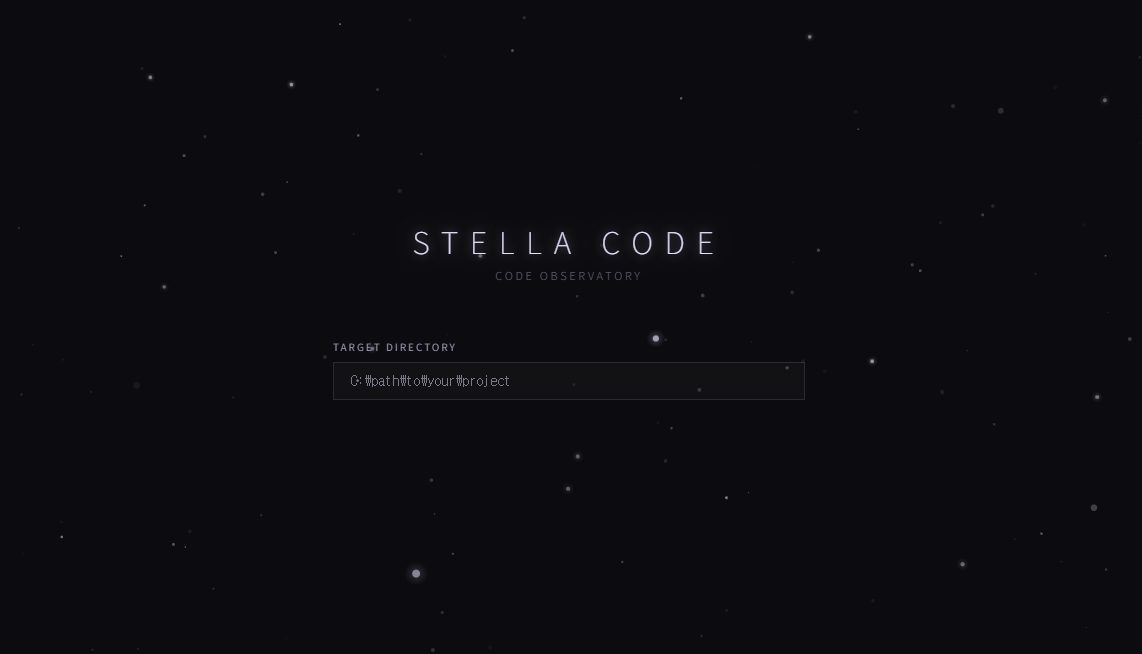
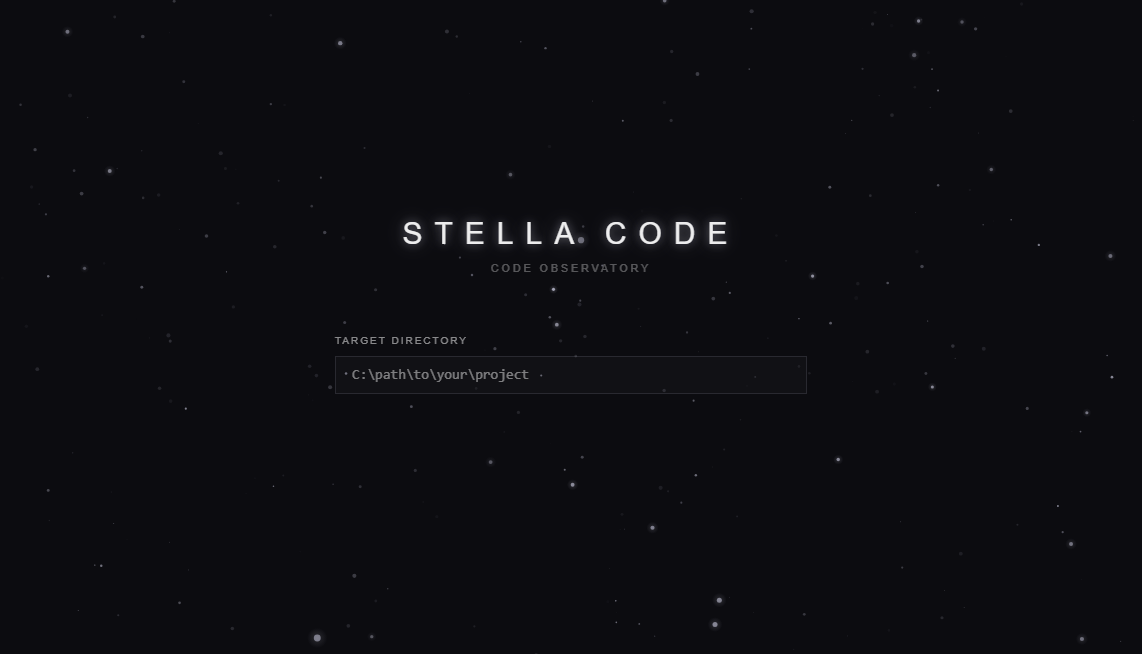
README: lead with a real hidden-coupling screen, shorter first screen
- Top screenshot: was a v0.1 screen of a 15-file, 1-commit project, where no
  co-change can exist. Now StellaCode on axios (last 500 commits) with the
  Co-change tab open on a hidden pair and the 7 commits behind it; the
  caption says this is master and what npm 1.3.0 lacks.
- The two-paragraph release note under the install line moved into that
  caption.
- What You See: one-line definitions; the parser details (re-exports,
  ./x.js, gray bar for large commits, trails) moved into a collapsed section.
  "Why" moved below it, so install and picture come first. Text unchanged.
- API table: method in its own column and short descriptions, so paths no
  longer wrap mid-word at desktop width; the 422 / scope notes follow as
  bullets.
- Architecture: one column, readable on a phone (the second column was cut
  off at 390 px).
- " -- " is now an em dash (it split across lines at phone width).
- Start screen screenshot retaken: the placeholder showed C:₩path₩to because
  the old capture used a Korean font for backslashes.

Round: R693 (PJ00 improvement loop)

Claude-Session: https://claude.ai/code/session_01VCs4HEFi6NiauWxSafLQJ7

diff --git a/README.md b/README.md
@@ -1,8 +1,8 @@
 # StellaCode
 
-**Code Observatory** -- observe your codebase as a living constellation.
+**Code Observatory** — observe your codebase as a living constellation.
 
-**See what your AI agent changed, surface hidden coupling debt (files that always change together but share no import), and replay your git history -- all local, in your terminal. No cloud, no code leaves your machine.**
+**See what your AI agent changed, surface hidden coupling debt (files that always change together but share no import), and replay your git history — all local, in your terminal. No cloud, no code leaves your machine.**
 
 [![npm version](https://img.shields.io/npm/v/stellacode?color=CB3837&logo=npm)](https://www.npmjs.com/package/stellacode)
 [![CI](https://github.com/juvenilehex/stellacode/actions/workflows/ci.yml/badge.svg)](https://github.com/juvenilehex/stellacode/actions/workflows/ci.yml)
@@ -13,23 +13,10 @@
 npx stellacode
 ```
 
-> Run it inside a project. StellaCode opens a local observatory for that codebase.
->
-> npm currently serves 1.3.0 (2026-03-23). Changes listed under `[Unreleased]` in [CHANGELOG.md](CHANGELOG.md) -- including the Co-change tab's hidden / linked / not-in-graph marks and commit evidence -- arrive with the next release; until then, run it from a clone (below).
+Run it inside a project; StellaCode opens a local observatory for that codebase.
 
-![StellaCode constellation view](https://raw.githubusercontent.com/juvenilehex/stellacode/master/screenshots/03-constellation-view.png)
-
-## Why
-
-We talk to AI, and code appears. Files multiply. One day you look around and realize you have a project you built -- but don't quite recognize anymore. Where does this connect? What did the AI change while you weren't looking? What keeps quietly breaking together?
-
-It can feel a little overwhelming. We thought it might help to just... see it.
-
-Every file becomes a star. Every import draws a constellation line. Hidden couplings -- files that always change together but share no import -- glow as teal threads you never knew existed. And when a Claude Code session touches your code, it leaves a trail across the sky.
-
-**Understand your project at a glance, and maybe feel something while you do.**
-
-If you've been staring at strings of text in a dark room for hours, we hope watching your code quietly glow and orbit can offer a moment of calm. Your project is alive. It's growing. And now you can see it.
+![StellaCode on the axios repository: the Git panel's Co-change tab with a hidden pair expanded to the commits that changed both files](https://raw.githubusercontent.com/juvenilehex/stellacode/master/screenshots/03-constellation-view.png)
+*StellaCode on [axios](https://github.com/axios/axios) (last 500 commits). Its CommonJS and ES-module type-test helpers changed in the same 7 commits and neither imports the other — hidden coupling, with the commits behind it. This is `master`; npm still serves 1.3.0 (March 2026), whose Co-change tab has neither the hidden marks nor the commits. Until the next release, [run from a clone](#quick-start).*
 
 ## Quick Start
 
@@ -63,11 +50,32 @@ npm run dev
 | Celestial body | What it means |
 |----------------|---------------|
 | **Star** | A file. Size = complexity (symbol count). Color = language. |
-| **Constellation Line** | An import relationship -- `import … from`, a re-export (`export … from`) or `import('…')` with a literal path. TypeScript's `./x.js` spelling finds `x.ts`. The declared wiring of your code. A computed `import(path)` can't be read, so it draws no line. |
-| **Co-change Thread** | Files that change together in git. Where no import connects them, that is hidden coupling -- the Git panel's Co-change tab marks each pair as hidden, linked by the code (and how), or not in the graph (a file the parser doesn't draw), and opens on the hidden ones. Click a pair for the commits that changed both. Pairs seen only in commits that changed more than 30 files get a gray bar: a release dump or a big merge can join unrelated files. |
-| **Trail** | The path a live Claude Code session left across your codebase (read from its session log). Plain file saves are not trails -- the file watcher can't tell who saved. |
+| **Constellation Line** | An import between two files — the declared wiring of your code. |
+| **Co-change Thread** | Two files that change together in git. With no import between them, that is hidden coupling. |
+| **Trail** | The path a live Claude Code session leaves across your code. |
 | **Pulse** | A file changing right now. |
 | **Diamond** | A directory. The structure that holds stars together. |
+
+<details>
+<summary>How lines, threads and trails are read</summary>
+
+- **Lines** come from `import … from`, re-exports (`export … from`) and `import('…')` with a literal path. TypeScript's `./x.js` spelling finds `x.ts`. A computed `import(path)` can't be read, so it draws no line.
+- **Threads**: the Git panel's Co-change tab marks each pair as hidden, linked by the code (and how), or not in the graph (a file the parser doesn't draw), and opens on the hidden ones. Click a pair for the commits that changed both. Pairs seen only in commits that changed more than 30 files get a gray bar — a release dump or a big merge can join unrelated files.
+- **Trails** are read from Claude Code's session log. Plain file saves are not trails — the file watcher can't tell who saved.
+
+</details>
+
+## Why
+
+We talk to AI, and code appears. Files multiply. One day you look around and realize you have a project you built — but don't quite recognize anymore. Where does this connect? What did the AI change while you weren't looking? What keeps quietly breaking together?
+
+It can feel a little overwhelming. We thought it might help to just... see it.
+
+Every file becomes a star. Every import draws a constellation line. Hidden couplings — files that always change together but share no import — glow as teal threads you never knew existed. And when a Claude Code session touches your code, it leaves a trail across the sky.
+
+**Understand your project at a glance, and maybe feel something while you do.**
+
+If you've been staring at strings of text in a dark room for hours, we hope watching your code quietly glow and orbit can offer a moment of calm. Your project is alive. It's growing. And now you can see it.
 
 ## Features
 
@@ -79,11 +87,11 @@ npm run dev
 - Search, filter by language, click to inspect
 
 ### Git Intelligence
-- **Co-change detection** -- finds files that always change together, even without imports. These hidden dependencies are often where bugs hide. Each pair lists the commits behind it -- a place to start asking why.
-- **Conventional commit parsing** -- feat, fix, refactor badges on each commit
-- **Hot files** -- most frequently modified files, ranked
-- **Activity heatmap** -- 30-day commit visualization
-- **Branch status** -- current branch, clean/dirty state
+- **Co-change detection** — finds files that always change together, even without imports. These hidden dependencies are often where bugs hide. Each pair lists the commits behind it — a place to start asking why.
+- **Conventional commit parsing** — feat, fix, refactor badges on each commit
+- **Hot files** — most frequently modified files, ranked
+- **Activity heatmap** — 30-day commit visualization
+- **Branch status** — current branch, clean/dirty state
 
 ### AI Agent Tracking
 - Detects commits from Claude Code, Copilot, Cursor, Aider, Codeium, Tabnine, Windsurf, Devin, Amazon Q, Gemini, and Bolt
@@ -91,18 +99,18 @@ npm run dev
 - See the boundary between human and machine work
 
 ### Visual Experience
-- **Entry animation** -- stars bloom into existence when the constellation loads
-- **Complexity glow** -- complex files burn brighter
-- **Co-change pulse** -- coupled files breathe together
-- **Code age coloring** -- old stars glow red, new stars glow blue
-- **Agent color mode** -- see which AI touched which file
-- **Nebula clouds, shooting stars, 4-layer starfield** -- deep space atmosphere
-- **3-point cinematic lighting** -- warm key, cool fill, purple rim
+- **Entry animation** — stars bloom into existence when the constellation loads
+- **Complexity glow** — complex files burn brighter
+- **Co-change pulse** — coupled files breathe together
+- **Code age coloring** — old stars glow red, new stars glow blue
+- **Agent color mode** — see which AI touched which file
+- **Nebula clouds, shooting stars, 4-layer starfield** — deep space atmosphere
+- **3-point cinematic lighting** — warm key, cool fill, purple rim
 
 ### Time Travel
-- **Commit replay** -- watch your constellation grow commit by commit
-- **Timeline slider** -- scrub through your project's history
-- **Playback controls** -- play, pause, rewind
+- **Commit replay** — watch your constellation grow commit by commit
+- **Timeline slider** — scrub through your project's history
+- **Playback controls** — play, pause, rewind
 
 ### Observe Mode
 Press `O` to hide all UI and watch the stars quietly. Just your code, breathing in the dark.
@@ -133,18 +141,20 @@ Click the capture button in the toolbar ("Save screenshot (PNG)") to save a PNG 
 ## Architecture
 
 ```
-Browser (React + R3F)            Server (Express)
-  Three.js 3D scene                Directory scanner
-  Zustand stores                   Code parser (TS/JS/Python/Go)
-  UI panels                        Graph builder + force layout
-  WebSocket client                 WebSocket broadcaster
-                                   File watcher (chokidar)
-                                   Agent tracker (git + .claude/)
-```
-
-```
-Data flow:
-  Your Project --> Scanner --> Parser --> Graph Builder --> Force Layout --> WebSocket --> 3D Scene
+Your project
+  │
+  ▼
+Server (Express)
+  directory scanner
+  code parser (TS/JS/Python/Go)
+  graph builder + force layout
+  file watcher (chokidar)
+  agent tracker (git + .claude/)
+  │ WebSocket
+  ▼
+Browser (React + R3F)
+  Three.js 3D scene
+  Zustand stores, UI panels
 ```
 
 ### Tech Stack
@@ -163,18 +173,22 @@ Data flow:
 
 The main endpoints are below. The complete list is the routers in [`server/src/routes/`](server/src/routes/).
 
-| Endpoint | Description |
-|----------|-------------|
-| `GET /api/graph` | Full graph (nodes, edges, stats) |
-| `GET /api/graph/node/:id` | Single node with connections |
-| `GET /api/stats` | Project statistics |
-| `GET /api/git/stats` | Git analysis (commits, branches, heatmap, co-changes) |
-| `GET /api/git/log?limit=50` | Parsed git log |
-| `GET /api/git/co-changes` | Temporal coupling analysis (the same pairs the graph draws and the Git panel lists, scoped to the opened folder) |
-| `GET /api/agent/events` | File-watch events (`agent: "unknown"` -- source can't be attributed) and recent agent commits |
-| `GET /api/agent/sessions` | Active agent sessions |
-| `POST /api/target` | Change target directory (422 with a reason, target unchanged, if the directory yields no valid graph — e.g. no supported source files) |
-| `GET /api/integrity` | Integrity check of the latest build of the current target |
+| Method | Path | Returns |
+|--------|------|---------|
+| GET | `/api/graph` | Full graph (nodes, edges, stats) |
+| GET | `/api/graph/node/:id` | One node with its connections |
+| GET | `/api/stats` | Project statistics |
+| GET | `/api/git/stats` | Commits, branches, heatmap, co-changes |
+| GET | `/api/git/log?limit=50` | Parsed git log |
+| GET | `/api/git/co-changes` | Co-change pairs |
+| GET | `/api/agent/events` | File-watch events, recent agent commits |
+| GET | `/api/agent/sessions` | Active agent sessions |
+| POST | `/api/target` | Switch the observed directory |
+| GET | `/api/integrity` | Integrity of the latest build |
+
+- `/api/git/co-changes` gives the same pairs the graph draws and the Git panel lists, scoped to the opened folder.
+- File-watch events carry `agent: "unknown"` — a file watcher can't tell who saved.
+- `POST /api/target` answers 422 with the reason and keeps the current target when the directory yields no valid graph (e.g. no supported source files).
 
 WebSocket at `ws://localhost:3001/ws` pushes `connected`, `graph:update`, `file:change`, `agent:live`, `quality:alert`, and `build:integrity` events (defined in [`server/src/domain.ts`](server/src/domain.ts) `WsMessageType`). When a rebuild after a file change fails the integrity check, the previous graph stays on screen and the toolbar shows `Build failed HH:MM` (hover for the reason).
 
@@ -188,7 +202,7 @@ npm test          # Run server + client tests
 ```
 
 ```bash
-# Dogfooding -- observe StellaCode with StellaCode
+# Dogfooding — observe StellaCode with StellaCode
 STELLA_TARGET=./ npm run dev
 ```
 
@@ -196,7 +210,7 @@ STELLA_TARGET=./ npm run dev
 
 StellaCode is still young, and we'd love to hear what you think.
 
-- **Discord**: [Join the server](https://discord.gg/VGQJSda5eZ) -- share your constellation, tell us what's broken, or just say hi
+- **Discord**: [Join the server](https://discord.gg/VGQJSda5eZ) — share your constellation, tell us what's broken, or just say hi
 - **GitHub Issues**: open an issue if you prefer
 
 See [CONTRIBUTING.md](CONTRIBUTING.md) for details.
